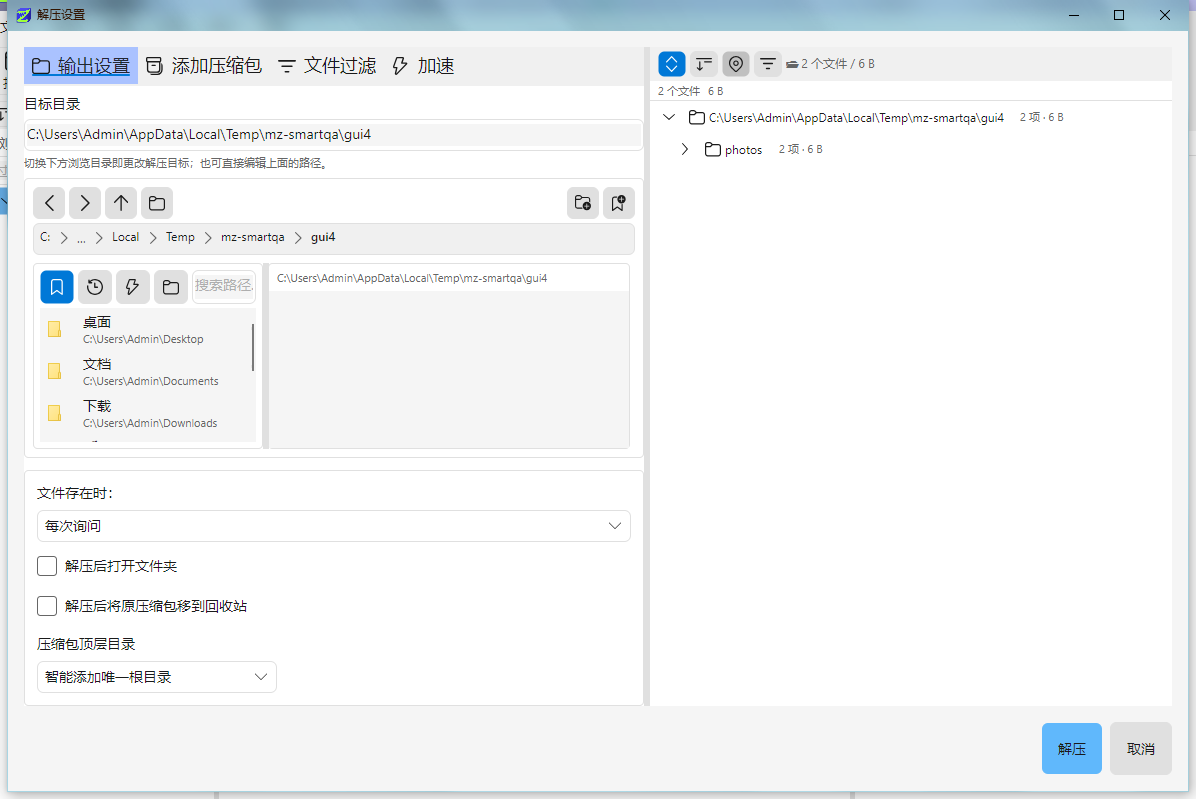
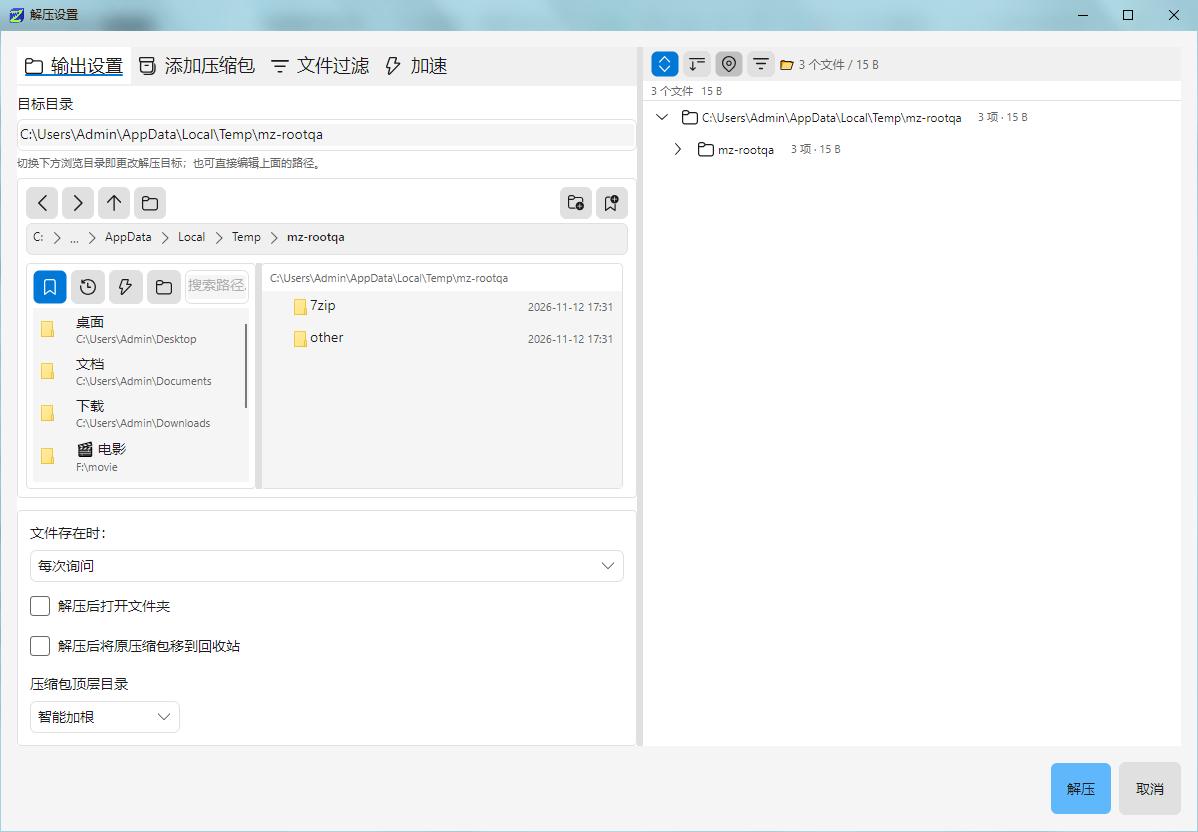
feat(avalonia): 包内根目录四档标签精简，根目录名与下拉同行
- 四档下拉文案去掉「唯一根目录」前缀：保持原样 / 智能去根 / 智能加根 / 始终加根（三语同步），
  前提条件改由 ToolTip 与不可用灰字说明承载
- 压缩设置窗「根目录名」与下拉同处一行（Grid 150,*）；内层用 Grid 而非 StackPanel，
  否则输入框宽度被 watermark 决定、撑不满剩余空间
- 解压设置窗、设置页三处下拉 240 → 150，设置页压缩默认值改为下拉与根名各占一半
- RELEASE_NOTES v0.5.8 三处旧长名同步改短，两张配图重拍

Changed region(s): [[0.0, 0.0, 1.0, 1.0], [0.1856, 0.5707, 0.2166, 0.6008]]

diff --git a/RELEASE_NOTES.md b/RELEASE_NOTES.md
@@ -10,14 +10,14 @@ MantisZip-0.5.8-Setup-WebSetup.exe requires internet during installation. Mantis
 
 **界面 / UI**
 
-- **压缩与解压都能指定「包内根目录」了** — 压缩设置窗新增「包内根目录」下拉：原样（不调整）/ 智能去除唯一根目录 / 智能添加唯一根目录 / 始终添加唯一根目录；后两档还能填「根目录名」，留空则用压缩包文件名。解压设置窗的「压缩包顶层目录」是同样的四档。右侧预览树显示的就是最终落进包里的结构，与实际输出共用同一套判定；某一档当前不适用时会直接从下拉里拿掉并附一行说明（只选了一个目录才有唯一根可去、分别压缩时不套根），不会留一个选了也不生效的开关。
-- **A root folder policy for both compression and extraction** — the compression window gains a "Folder inside archive" dropdown (keep as-is / smart-remove the single root / smart-add a root / always add a root); the last two also accept a custom root name that falls back to the archive name. The extraction window offers the same four choices as "Top folder of the archive". The preview tree already shows the structure that will end up in the archive, using the same rules as the real output, and a choice that does not apply right now is removed from the list with a note (only a single selected folder has a root to strip, separate compression adds no root), so there is never a switch that silently does nothing.
-- ![压缩设置窗「包内根目录」：选「始终添加唯一根目录」时出现「根目录名」输入框，右侧预览树显示最终结构](docs/images/version/v0.5.8/CompressRootFolder.png)
+- **压缩与解压都能指定「包内根目录」了** — 压缩设置窗新增「包内根目录」下拉：保持原样 / 智能去根 / 智能加根 / 始终加根；后两档还能填「根目录名」，留空则用压缩包文件名（与下拉同一行，省一行高度）。解压设置窗的「压缩包顶层目录」是同样的四档。右侧预览树显示的就是最终落进包里的结构，与实际输出共用同一套判定；某一档当前不适用时会直接从下拉里拿掉并附一行说明（只选了一个目录才有唯一根可去、分别压缩时不套根），不会留一个选了也不生效的开关。
+- **A root folder policy for both compression and extraction** — the compression window gains a "Folder inside archive" dropdown (Leave as is / Smart strip / Smart wrap / Always wrap); the last two also accept a custom root name that falls back to the archive name, sitting on the same row as the dropdown. The extraction window offers the same four choices as "Top folder of the archive". The preview tree already shows the structure that will end up in the archive, using the same rules as the real output, and a choice that does not apply right now is removed from the list with a note (only a single selected folder has a root to strip, separate compression adds no root), so there is never a switch that silently does nothing.
+- ![压缩设置窗「包内根目录」：选「始终加根」时同一行出现「根目录名」输入框，右侧预览树显示最终结构](docs/images/version/v0.5.8/CompressRootFolder.png)
 - ![解压设置窗「压缩包顶层目录」：四档与压缩端一致，右侧预览树显示解压后的层级](docs/images/version/v0.5.8/ExtractRootFolder.png)
-- **「智能解压」可以选择加根还是去根了** — 设置 → 解压 新增「智能解压」卡片，两档：「智能添加唯一根目录」（默认）与以前的行为逐型一致（单根包落在包自带的那层、散装包补一层以包名命名的目录），「智能去除唯一根目录」则去掉包内唯一的顶层目录（散装与多根包本来就没有唯一根，因此原地平铺、不做改动）。工具栏、右键菜单与双击关联里的「智能解压」共用这一项设置。
+- **「智能解压」可以选择加根还是去根了** — 设置 → 解压 新增「智能解压」卡片，两档：「智能加根」（默认）与以前的行为逐型一致（单根包落在包自带的那层、散装包补一层以包名命名的目录），「智能去根」则去掉包内唯一的顶层目录（散装与多根包本来就没有唯一根，因此原地平铺、不做改动）。工具栏、右键菜单与双击关联里的「智能解压」共用这一项设置。
 - **Smart extract can add or strip the top folder** — Settings → Extraction gains a "Smart extract" card with two choices: the default "smart-add a root" behaves exactly as before for every archive layout (a single-root archive keeps its own top folder, a loose archive gains a folder named after the archive), while "smart-remove the single root" drops the lone top folder — loose and multi-root archives have no single root, so their files simply land where they are. The toolbar button, the context menu and the double-click association all follow this setting.
-- **解压设置窗的默认目标目录改为压缩包所在目录** — 打开「解压设置」时不再预填「父目录\包名」，而是直接指向压缩包所在的目录，包名那一层改由「压缩包顶层目录」负责。可见差异有两处：单根包不再套两层同名目录（原来的「包名\包内根\」变成「包内根\」），自定义目标目录时散装包会多出一层以包名命名的目录。若想完全回到以前的层级，把「压缩包顶层目录」选成「原样（不调整）」即可。
-- **The extraction window now defaults to the archive's own folder** — opening "extract settings" pre-fills the folder the archive sits in rather than "parent\archive-name", with the archive-name level now handled by the top-folder setting. Two visible differences: a single-root archive no longer nests two identically named folders (the old "name\inner-root\" becomes "inner-root\"), and a loose archive extracted into a chosen folder gains one folder named after the archive. Selecting "keep as-is" for the top folder restores the previous layout exactly.
+- **解压设置窗的默认目标目录改为压缩包所在目录** — 打开「解压设置」时不再预填「父目录\包名」，而是直接指向压缩包所在的目录，包名那一层改由「压缩包顶层目录」负责。可见差异有两处：单根包不再套两层同名目录（原来的「包名\包内根\」变成「包内根\」），自定义目标目录时散装包会多出一层以包名命名的目录。若想完全回到以前的层级，把「压缩包顶层目录」选成「保持原样」即可。
+- **The extraction window now defaults to the archive's own folder** — opening "extract settings" pre-fills the folder the archive sits in rather than "parent\archive-name", with the archive-name level now handled by the top-folder setting. Two visible differences: a single-root archive no longer nests two identically named folders (the old "name\inner-root\" becomes "inner-root\"), and a loose archive extracted into a chosen folder gains one folder named after the archive. Selecting "Leave as is" for the top folder restores the previous layout exactly.
 
 **修复 / Fixes**
 

diff --git a/docs/progress-avalonia-detail.md b/docs/progress-avalonia-detail.md
@@ -6,6 +6,15 @@
 
 ## MantisZip.UI.Avalonia（主力版）
 
+**2026-11-13** — 交互：包内根目录四档标签精简 + 根目录名与下拉同行
+  - **用户反馈（原文）**：「包内根目录四档 有几个文本太长，后面都是"唯一根目录"字样，可以去掉或适当精简。相应 ui 宽度也可以缩短。」「后面"根目录名"的控件应该跟下拉选框放在一行，以节省空间。」
+  - **标签精简**（只改值、key 不变，三语 key 数仍 1513）：`保持原样` / `智能去根` / `智能加根` / `始终加根`（zh-TW：保持原樣 / 智慧去根 / 智慧加根 / 始終加根；en：Leave as is / Smart strip / Smart wrap / Always wrap）。原先四档都把「唯一根目录」这个**前提条件**写进名字里，而它本就缩在「包内根目录」标题下 —— 前提条件交给 ToolTip（`*_Tip` 一字未改）与那行灰字说明承载。
+  - **连带改文案**：两条灰字说明里写死了旧长名，会自相矛盾 ⇒ `Compress_RootMode_Hint_StripUnavailable` 与 `Extract_RootMode_Hint_StripUnavailable` 改为「智能去根」。
+  - **压缩对话框**（`Dialogs/CompressSettingsWindow.axaml`）：原「下拉一行 / 灰字一行 / 根名一行」三行改成「下拉 + 根名同一行」——`Grid ColumnDefinitions="150,*"`，下拉定宽 150 靠左、根名组（`Grid ColumnDefinitions="Auto,*"`，标签 + 输入框）吃掉剩余宽度并挂 `IsVisible="{Binding IsWrapRootVisible}"`，不套根时整组隐藏、下拉原位不跳动。**内层必须用 Grid 而不是横向 StackPanel**：StackPanel 里子控件只拿到自身想要的宽度，输入框会被 watermark 字数决定宽窄、撑不满剩余空间（首版写成 StackPanel，截图里输入框只有半截）。
+  - **解压对话框** 与 **设置页三处**：`MinWidth="240"` → `Width="150"`（解压端 + 压缩默认值 + 解压默认值 + 智能解压两档）；设置页「包内根目录 + 默认根目录名」改成 `Grid ColumnDefinitions="*,*"` 各占一半。
+  - **发布说明与配图同步**：`RELEASE_NOTES.md` 的 v0.5.8 章节里 13/17/19 行的旧长名全部改短（含「原样（不调整）」→「保持原样」、英文 "keep as-is" → "Leave as is"），两张配图重拍 —— `CompressRootFolder.png`（1082×873，两个散装文件 + 始终加根，下拉「始终加根」与「根目录名」同行，下方灰字「当前源不满足「智能去根」的条件（需只选中一个目录），该选项已隐藏。」）、`ExtractRootFolder.png`（1198×832，解压设置窗「压缩包顶层目录」下拉「智能加根」）。
+  - **验证**：`-Task i18n` 1513 key 三语一致；`-Task build -Target avalonia -ExtraArgsJson '["-c","Release","--no-incremental"]'` ✅ 18.4s / 18.9s **0 警告**；真机逐屏核对（压缩窗四档下拉、解压窗、设置页压缩/解压两个页签）。
+  - **踩坑**：①真机截图不能用 `GetWindowRect`（含 DWM 阴影，右侧会带上一条别的窗口残影）⇒ 改用 `DwmGetWindowAttribute(hwnd, 9 /*DWMWA_EXTENDED_FRAME_BOUNDS*/)`；②`SetWindowPos` 同时给 `SWP_NOSIZE` 与尺寸会静默忽略尺寸，想按指定尺寸取景必须只传 `SWP_NOACTIVATE|SWP_FRAMECHANGED`；③设置窗没有 CLI 参数（`--settings` 不被识别），得先开主窗口再点 Tools → 设置；④主窗口工具栏「工具」菜单在图像 x≈168（不是 x≈192），点偏了会落到「视图」菜单。
 **2026-11-13** — 版本号升级 v0.5.8（6 处同步）
   - 按 Version bump checklist 从 0.5.7 改到 0.5.8：`src/MantisZip.UI.Avalonia/AppConstants.cs` 的 `Version`、`src/MantisZip.UI.Avalonia/MantisZip.UI.Avalonia.csproj` 的 `<Version>`、`installer.iss` 与 `installer-selfcontained.iss` 的 `#define MyAppVersion` 兜底值、`docs/PLAN.md` 与 `docs/PROGRESS.md` 的当前版本。
   - **没动 `RELEASE_NOTES.md`**：v0.5.8 章节已在 `b88cace8` 里按 0.5.8 的四个安装包名写好，六处此前反而停 0.5.7，本次是把两边对齐。
